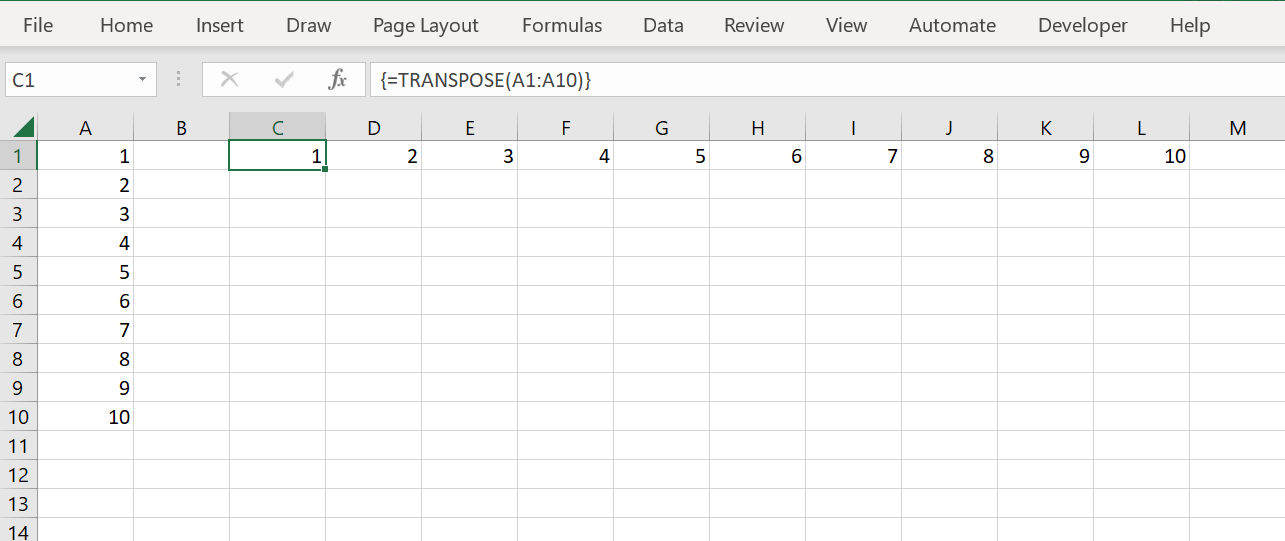
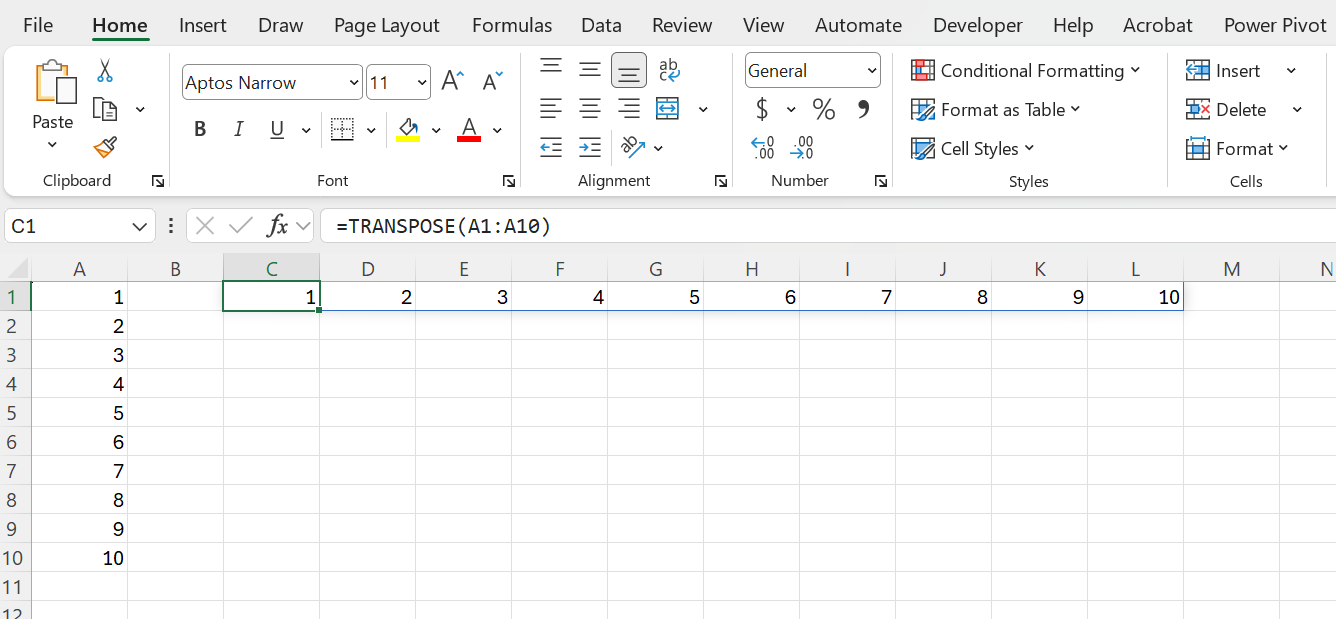
dynamic array formula

Changed region(s): [[0.0, 0.0296, 1.0, 1.0], [0.0623, 0.7098, 0.1245, 0.8577], [0.0623, 0.8872, 0.1245, 0.976]]

diff --git a/excel/excel_08_data_analysis.md b/excel/excel_08_data_analysis.md
@@ -166,7 +166,7 @@ You can find more information about named ranges and the name manager on the [Mi
 
 ## Array formulas
 
-Excel now has the capability of array formulas. A single array formula can perform multiple calculations at once.
+Excel has the capability of array formulas. A single array formula can perform multiple calculations at once.
 
 Let's have a look at an example:
 
@@ -190,8 +190,10 @@ What we would like to calculate is the total weight from all the fish in all of 
 
 As you can see, the answer is directly calculated. If you are not interested in the total weight of the fish within the individual fish tanks but just the total weight of all the fish (in all the tanks) this will save you adding an extra column. You can put the calculation directly on an analysis tab.
 
+The example above is an array formula because it performs an element-by-element multiplication of the two ranges (C2:C5 and D2:D5) before summing the results together.  
 
->Thus: An array formula is a formula that gets applied to more than one cell. But although an array formula always gets applied to more than one cell, array functions can return the result in a single cell (as the example above) or in multiple cells (see below).
+
+>Thus: A dynamic array formula is a formula entered into a single cell that can automatically return its results across multiple adjacent cells (spill) or calculate multiple cells to return a single aggregated result in one cell.
 
 ```
 =ROW(1:10)
